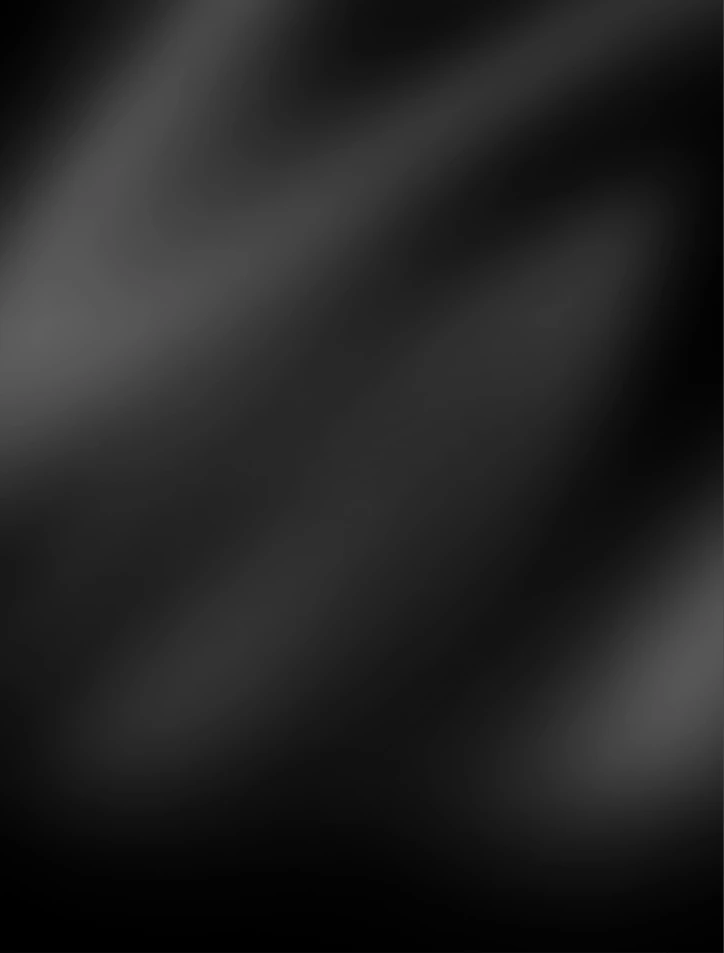
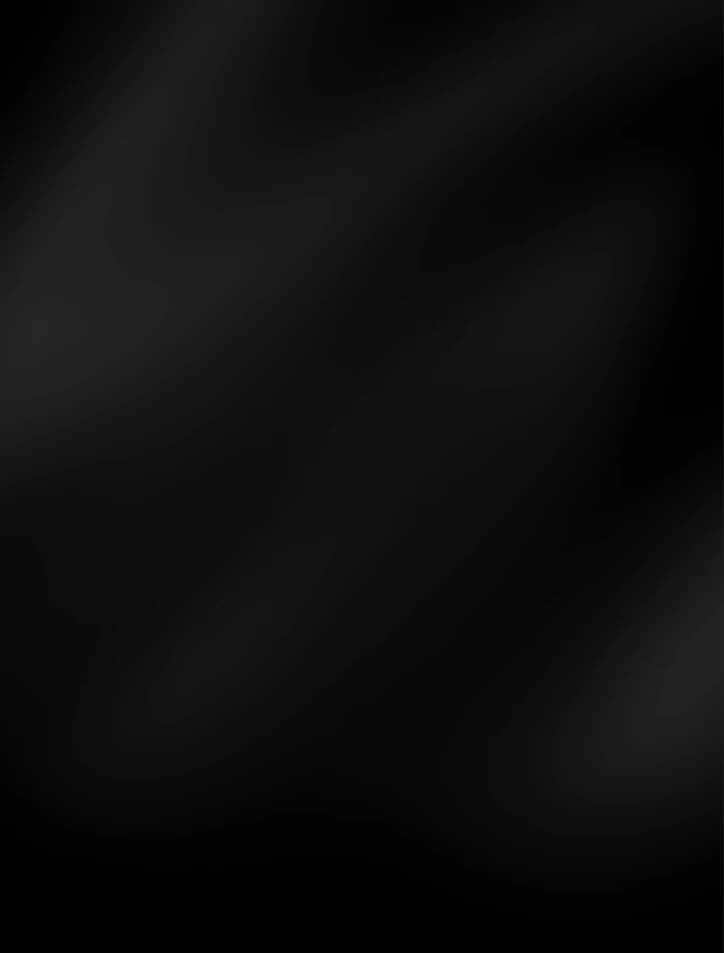
Match Aurora 2's two modes in CIE L*, not in 8-bit levels
Light lands at 212-255, dark at 0-38, and the pair is tuned to sit the same
distance from its own page colour rather than to the same numeric spread.

That distinction is the whole fix. An equal numeric spread does not read equal:
the light wash sits beside white cards, and the same luminance delta is far
heavier against white than against black. Matched at 95/95 the light side was
called out as taking too much prominence while dark still read as quiet. Both
now sit at a deltaL* of about 15 from their own ground - 43 levels against
white, 38 against black.

The dark side came DOWN to get there. An earlier round raised it on a reading
of lighter as brighter; lighter meant less weight, and reducing it is the same
operation as reducing its opacity, since scaling luminance over a pure black
ground is exactly that.

To retune later: pick the light floor, convert its deltaL* from white, and
solve for the black-side value carrying the same deltaL*. Moving one mode alone
is what put this round through five passes.

diff --git a/app/globals.css b/app/globals.css
@@ -1367,10 +1367,15 @@ textarea,
    Neither file is veiled now. Light carried a 0.22 white veil while the art was
    the colour version and needed to sit back; grey already sits back, and the
    Figma frames show both modes unveiled.
-   Both files are relevelled off ONE knob so the two modes carry the same
-   prominence: a SPREAD of 95: light is remapped to 160–255 (floor = 255 −
-   spread), dark to 0–95 (peak = spread), so each departs from its own page
-   colour by the same amount. Do not tune one mode without the other.
+   Both files are relevelled: light to 212–255, dark to 0–38.
+   They are matched in CIE L*, not in 8-bit levels, and that is the whole point.
+   An equal numeric spread does NOT read equal — the light wash sits beside white
+   cards, and the same delta is far heavier against white than against black.
+   Matched at 95/95 the light side was called out as too prominent while dark
+   still read quiet. Both now sit at ΔL* ≈ 15 from their own page colour, which
+   is 43 levels against white and only 38 against black.
+   To retune: pick the light floor, convert its ΔL* from white, and solve the
+   black-side value with the same ΔL*. Never move one mode alone.
    Being genuinely greyscale also makes them tiny — under 9 KB each, against
    88 KB and 42 KB for the colour pair.
    The art layer stretches the file to the 4/5 field (`100% 100%`) instead of

diff --git a/GENERATED_ASSETS.md b/GENERATED_ASSETS.md
@@ -26,12 +26,16 @@ scene does too. A CSS `mix-blend-mode: luminosity` would depend on the art layer
 sitting in its own stacking context, and the wrapper's `opacity: 1 - f` gives it one the
 moment a chat opens.
 
-BOTH files are RELEVELLED off ONE knob, and this is the part worth remembering. Straight
-out of Figma light ran 188–249 and dark 0–86 — light never reached the page white, so it
-read as a grey slab behind white cards, and neither showed much wave. They are now driven
-by a single SPREAD of 95: light is remapped to 160–255 (floor = 255 − spread) and dark to
-0–95 (peak = spread), so each departs from its own page colour by the same amount and the
-two read with the same prominence rather than being tuned independently.
+BOTH files are RELEVELLED: light to 212–255, dark to 0–38. Straight out of Figma light
+ran 188–249 and dark 0–86.
+
+They are matched in **CIE L\***, not in 8-bit levels, and that is the finding worth
+keeping. An equal numeric spread does not read equal: the light wash sits beside white
+cards, and the same luminance delta is far heavier against white than against black.
+Matched at 95/95 the light side was immediately called too prominent while dark still read
+as quiet. Both now sit at ΔL\* ≈ 15 from their own page colour — 43 levels against white,
+38 against black. To retune, pick the light floor, convert its ΔL\* from white, and solve
+for the black-side value with the same ΔL\*; never move one mode alone.
 
 Getting there took three misses worth recording, because each was a different failure. At
 228–255 the light file measured fine and loaded fine but was invisible — a remap that
